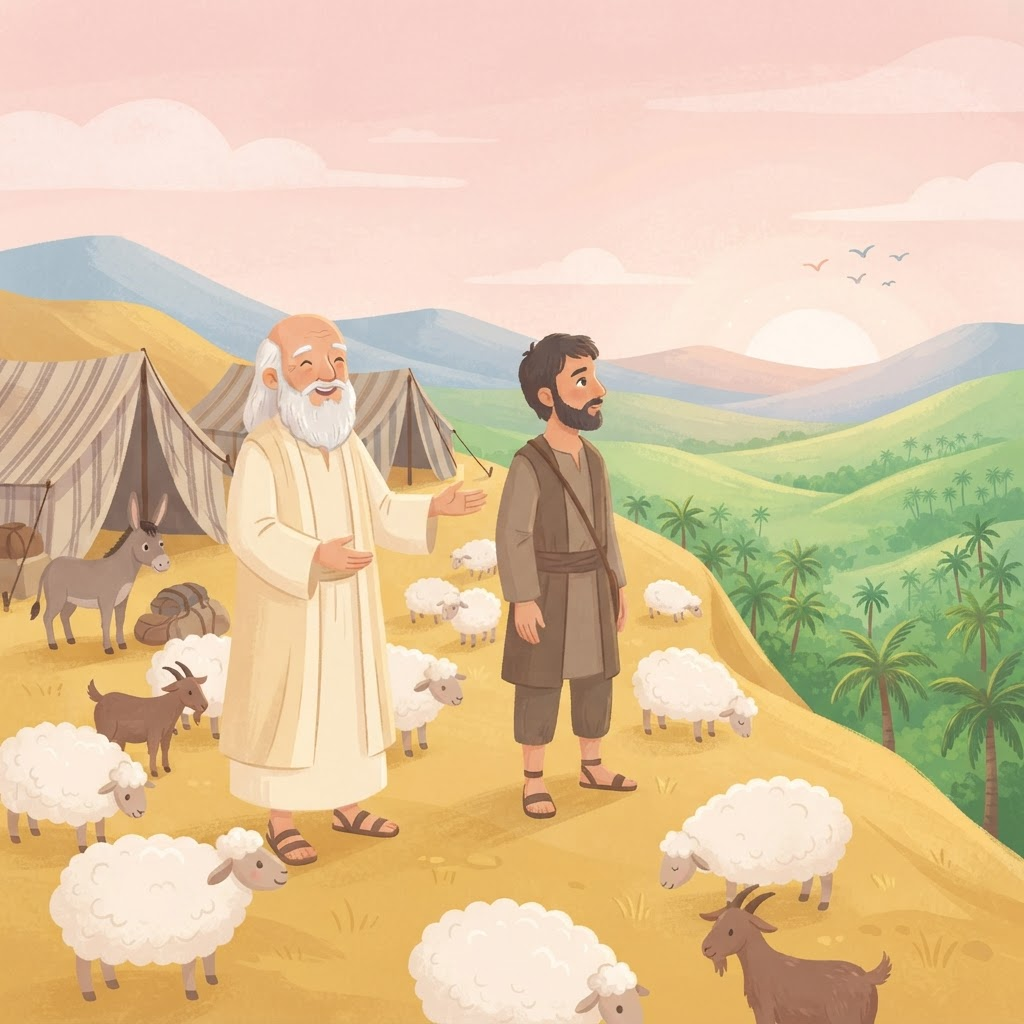
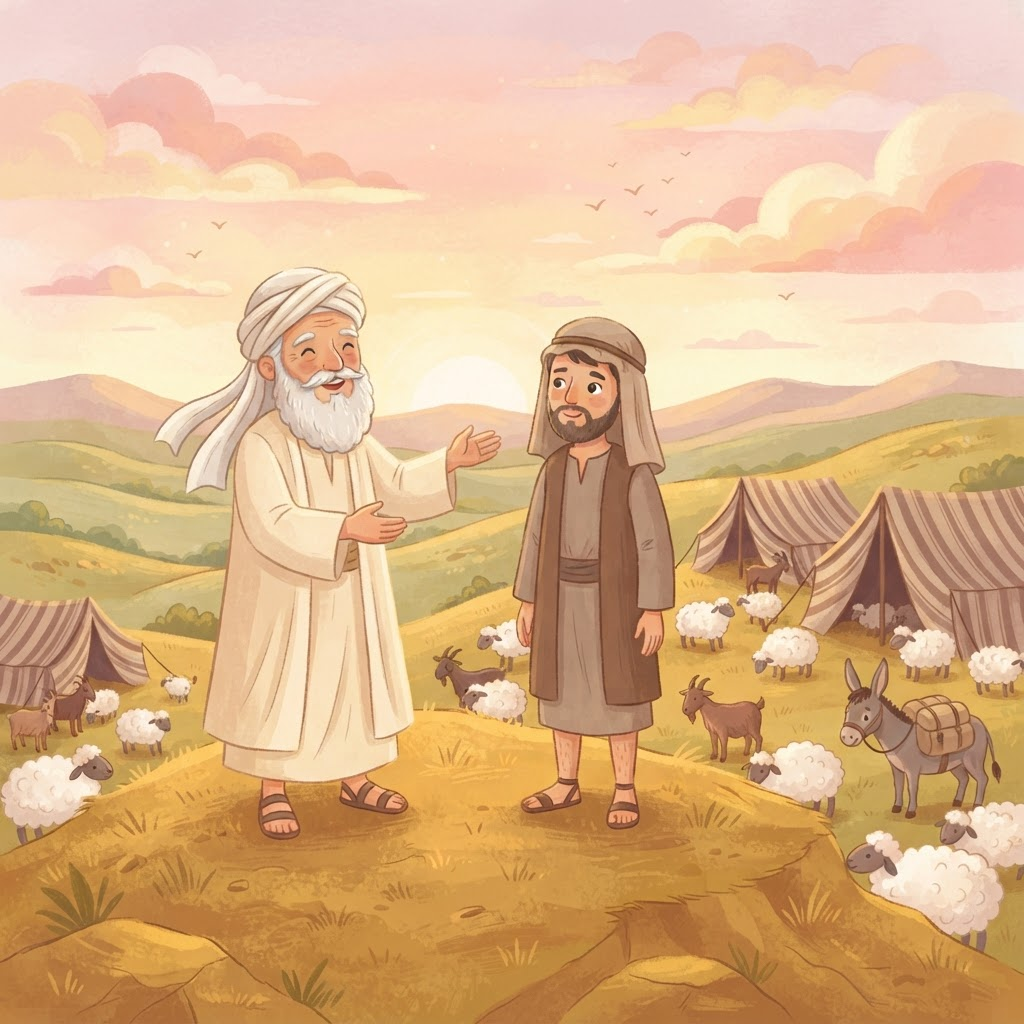
Hagit Stories v9: episode illustration with head coverings (religious look) for Avraham and Lot

diff --git a/hagit-stories/sw.js b/hagit-stories/sw.js
@@ -1,4 +1,4 @@
-const CACHE='hagit-stories-v8';
+const CACHE='hagit-stories-v9';
 self.addEventListener('install',e=>{e.waitUntil(caches.open(CACHE).then(c=>c.addAll(['./','./index.html','./manifest.json'])));self.skipWaiting();});
 self.addEventListener('activate',e=>{e.waitUntil(caches.keys().then(ks=>Promise.all(ks.filter(k=>k!==CACHE).map(k=>caches.delete(k)))));self.clients.claim();});
 self.addEventListener('fetch',e=>{e.respondWith(fetch(e.request).then(r=>{const cp=r.clone();caches.open(CACHE).then(c=>c.put(e.request,cp));return r;}).catch(()=>caches.match(e.request)));});
